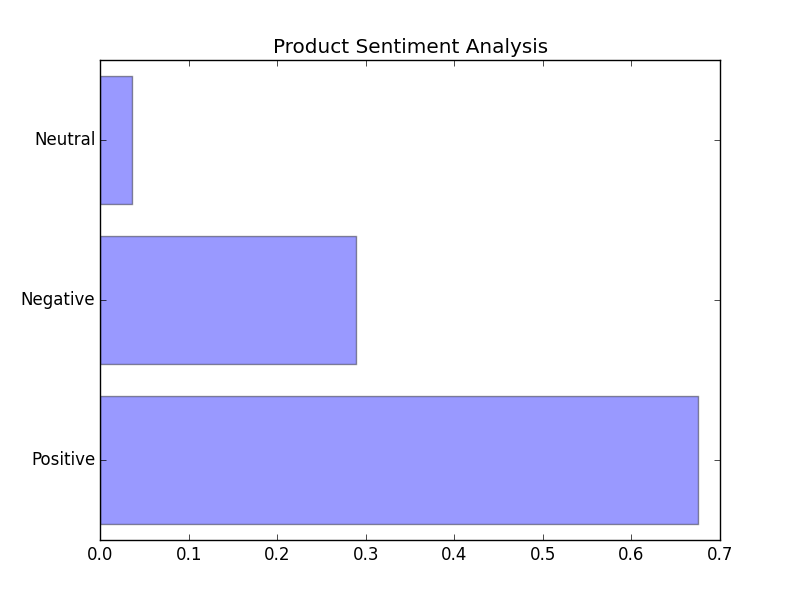
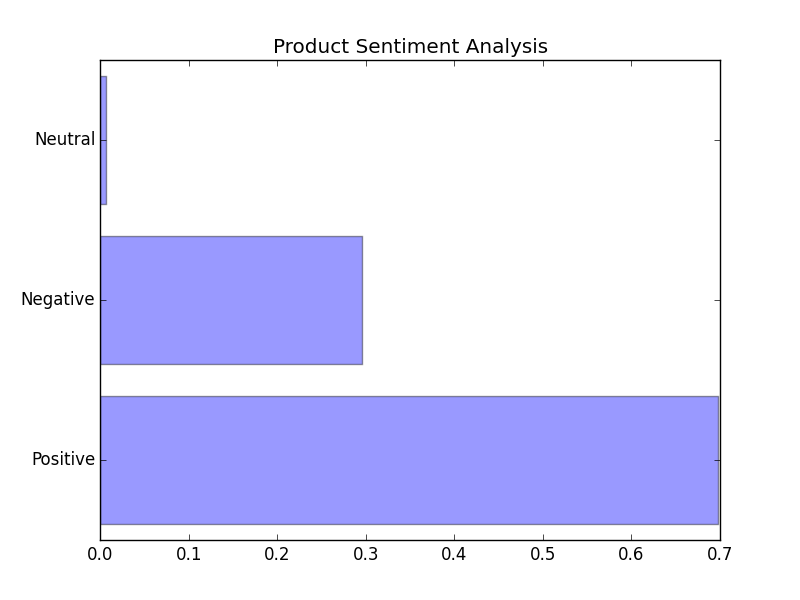
16th commit

Changed region(s): [[0.125, 0.12, 0.1875, 0.36], [0.875, 0.66, 0.9062, 0.9], [0.4375, 0.39, 0.4688, 0.6]]

diff --git a/TwitterSentimentAnalysis/Output.html b/TwitterSentimentAnalysis/Output.html
@@ -27,18 +27,18 @@
     <div class="container-fluid">
         <div class="row">
         <div class="col-lg-4">
-        <h2>Top 10 tweets</h2>
+        <h2>Latest tweets</h2>
             <ul class="list-group">
-        <li class="list-group-item">fashiongenius Although I ve been sent the iPhone shutdown code twice I won t send it to anyone because I m just that nice goldenr</li>
-        <li class="list-group-item">Ok so lemme get this clear fool U have an iphone 6 and u spend Gh 6 a day With empty fridge and roaming with no work</li>
-        <li class="list-group-item">we all know who s behind the iPhone restart code</li>
-        <li class="list-group-item">WE RE GIVING A BLACK IPHONE 6 RULES 1 Follow 2 Fav this 3 25 winners will be chosen</li>
-        <li class="list-group-item">sweet my iphone screen just cracked</li>
-        <li class="list-group-item">Ebay Snipe  Apple Iphone 5c 8gb Blue unlocked Smartphone Please Favorite amp Share</li>
-        <li class="list-group-item">Hot Deals gt New 3M 10FT USB Data Sync Charger Cable for iPhone 4S 4 3GS 3G 2G Red</li>
-        <li class="list-group-item">Hot Deals gt 3800mAh iPhone 6 4 7 External Battery Backup Charging Bank Power Case Cover</li>
-        <li class="list-group-item">Last Second OutBid  Apple Iphone 5c 16gb Pink verizon Smartphone Clean Esn Just Need Sim Please Fav</li>
-        <li class="list-group-item">I just flew 151m in an awesome game of JetpackJoyride on iPhone Any challengers</li>
+        <li class="list-group-item">I liked a video from alejandrab93 F R I E N D S Dubsmash Iphone App</li>
+        <li class="list-group-item">Morel Monfils Effective POWER TEXT Message Make Peoples IPhone Turn Off Crash amp Reboot iOS 8 3 Bug gt gt ngbg</li>
+        <li class="list-group-item">mAn these iphone charges weak af they always get shoages and shit cuz</li>
+        <li class="list-group-item">There s no limit to perfection now Caf is better then it was gameinsight iphonegames iphone</li>
+        <li class="list-group-item">Honestly what use do you have for a locked iphone dumbass I will find you</li>
+        <li class="list-group-item">Leisure Owl Leather Card Holder Wallet Gel Flip Case Cover Skin for iPhone 5 5S Full rea</li>
+        <li class="list-group-item">Crazy iOS Glitch Lets Anyone Crash Your iPhone With A Text iphonebug iphoneglitch</li>
+        <li class="list-group-item">I didn t get many as my iPhone just couldn t handle it You were so lucky to get a photo with him I did manage an autograph</li>
+        <li class="list-group-item">I m now an E List celebrity in Kim Kardashian Hollywood You can be famous too by playing on iPhone</li>
+        <li class="list-group-item">Why is like 1 3 of my iPhone filled with other data Trying to fix it Not working Need a breakdown Apple fixit</li>
             </ul>
         </div>
         <div class="col-lg-3">
@@ -77,7 +77,7 @@
                     <div class="col-md-6">
                     </br>
                     </br>
-                    <h4>333</h4>
+                    <h4>311</h4>
                     </div>
                     </li>
                     <li class="list-group-item row">
@@ -87,7 +87,7 @@
                     <div class="col-md-6">
                     </br>
                     </br>
-                    <h4>5</h4>
+                    <h4>6</h4>
                     </div>
                     </li>
                     <li class="list-group-item row">
@@ -97,7 +97,7 @@
                     <div class="col-md-6">
                     </br>
                     </br>
-                    <h4>75</h4>
+                    <h4>86</h4>
                     </div>
                     </li>
                     <li class="list-group-item row">
@@ -107,7 +107,7 @@
                     <div class="col-md-6">
                     </br>
                     </br>
-                    <h4>13</h4>
+                    <h4>2</h4>
                     </div>
                     </li>
                     <li class="list-group-item row">
@@ -117,7 +117,7 @@
                     <div class="col-md-6">
                     </br>
                     </br>
-                    <h4>150</h4>
+                    <h4>153</h4>
                     </div>
                     </li>
                     <li class="list-group-item row">
@@ -127,7 +127,7 @@
                     <div class="col-md-6">
                     </br>
                     </br>
-                    <h4>90</h4>
+                    <h4>64</h4>
                     </div>
                     </li>
                     </ul>

diff --git a/TwitterSentimentAnalysis/twitterstream.py b/TwitterSentimentAnalysis/twitterstream.py
@@ -71,7 +71,7 @@ class StdOutListener(StreamListener):
             tf.write(json_data)
            
         self.num_of_tweets = self.num_of_tweets + 1
-        if self.num_of_tweets <5:
+        if self.num_of_tweets <10:
             return True
         else:
             tf.close()
@@ -88,7 +88,7 @@ if __name__ == '__main__':
     auth = OAuthHandler(consumer_key, consumer_secret)
     auth.set_access_token(access_token, access_token_secret)
     stream = Stream(auth, l)
-    stream.filter(track=['iphone,iPhone'],languages=['en'])
+    stream.filter(track=['iphone,iPhone, IPHONE, Iphone'],languages=['en'])
     sum = 0.0
     sum1 = 0.0
     layout = 3
@@ -100,7 +100,7 @@ if __name__ == '__main__':
     stop_words = [line.strip() for line in f]
     tweets_words = ['iphone', 'iPhone', 'amp']
     alist = []
-    tweets = []
+    tweets = set()
     horrible = []
     bad = []
     awesome = []
@@ -117,8 +117,8 @@ if __name__ == '__main__':
         tweet = TextBlob(iphonetweet["text"])
         
         sum1 = sum1 + tweet.word_counts['screen']
-        if tweet.sentiment.subjectivity != 0.0:
-            tweets.append(iphonetweet["text"])
+        if 0.5<= tweet.sentiment.subjectivity <= 1.0:
+            tweets.add(iphonetweet["text"])
             important_words = iphonetweet['text'].lower()
             my_text += important_words
             alist.append(tweet.sentiment.polarity)
@@ -146,6 +146,7 @@ if __name__ == '__main__':
                     horrible.append(tweet.sentiment.polarity)
             else:
                 neutral.append(tweet.sentiment.polarity)
+    
     total= len(alist)
 
     print tecPositive
@@ -209,6 +210,7 @@ if __name__ == '__main__':
    
     plt.clf()
 
+   
     n_groups = 9
     positives = []
     negatives = []
@@ -249,7 +251,7 @@ if __name__ == '__main__':
     plt.tight_layout()
     
     savefig('details.png')
-
+    
     plt.clf()
 
     x = [-0.2,1.2]
@@ -275,6 +277,8 @@ if __name__ == '__main__':
     plt.plot(x,y4)
     
     savefig('statistic.png')
+   
+   
    
     f = open('Output.html','w')
 
@@ -309,16 +313,16 @@ if __name__ == '__main__':
         <div class="col-lg-4">
         <h2>Latest tweets</h2>
             <ul class="list-group">
-        <li class="list-group-item">""" + tweets[len(tweets)-1]+"""</li>
-        <li class="list-group-item">""" + tweets[len(tweets)-2]+"""</li>
-        <li class="list-group-item">""" + tweets[len(tweets)-3]+"""</li>
-        <li class="list-group-item">""" + tweets[len(tweets)-4]+"""</li>
-        <li class="list-group-item">""" + tweets[len(tweets)-5]+"""</li>
-        <li class="list-group-item">""" + tweets[len(tweets)-6]+"""</li>
-        <li class="list-group-item">""" + tweets[len(tweets)-7]+"""</li>
-        <li class="list-group-item">""" + tweets[len(tweets)-8]+"""</li>
-        <li class="list-group-item">""" + tweets[len(tweets)-9]+"""</li>
-        <li class="list-group-item">""" + tweets[len(tweets)-10]+"""</li>
+        <li class="list-group-item">""" + tweets.pop()+"""</li>
+        <li class="list-group-item">""" + tweets.pop()+"""</li>
+        <li class="list-group-item">""" + tweets.pop()+"""</li>
+        <li class="list-group-item">""" + tweets.pop()+"""</li>
+        <li class="list-group-item">""" + tweets.pop()+"""</li>
+        <li class="list-group-item">""" + tweets.pop()+"""</li>
+        <li class="list-group-item">""" + tweets.pop()+"""</li>
+        <li class="list-group-item">""" + tweets.pop()+"""</li>
+        <li class="list-group-item">""" + tweets.pop()+"""</li>
+        <li class="list-group-item">""" + tweets.pop()+"""</li>
             </ul>
         </div>
         <div class="col-lg-3">
